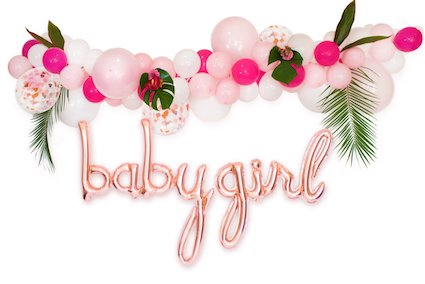
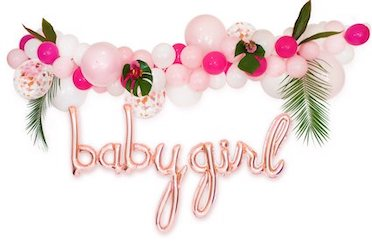
changed picture

diff --git a/index.html b/index.html
@@ -6,8 +6,7 @@
     <meta name="description" content="Sarah and Ranjith's Baby Shower">
     <link rel="stylesheet" href="css/reset.css">
     <link rel="stylesheet" href="css/style.css">
-    <link rel="stylesheet" href="css/small.css" media="(max-width: 640px)" media="(min-device-width : 375px) 
-    and (max-device-width : 667px)">
+    <link rel="stylesheet" href="css/small.css" media="(max-width: 630px)">
     <link href='https://fonts.googleapis.com/css?family=Open+Sans:300,700/Lobster' rel='stylesheet' type='text/css'>
     <meta name="viewport" content="width=device-width, initial-scale=1">
     <meta charset="utf-8" />
@@ -15,7 +14,7 @@
 
 <body>
     <div class="container">
-        <aside class="ohh-baby"><img src="./images/welcome-baby.jpeg" alt="ohh-baby"> </aside>
+        <aside class="ohh-baby"><img src="./images/ohh-baby.jpg" alt="ohh-baby"> </aside>
 
         <section class="details">
             <h1>Sarah and Ranjith's Baby Shower</h1>
@@ -79,7 +78,13 @@
         </iframe>
 
         <footer>
-            <p>Ranjith Coded this website for Sarah</p>
+            <strong>
+                <p>Ranjith Coded this website for Sarah | © 2019 - 2020 <br> <a style="margin-left:120px;"
+                        href="https://onemonth.com/" target="_blank">
+                        OneMonth </a> | <a
+                        href="https://www.target.com/gift-registry/giftgiver?registryId=8f45ba58a9d14184b58a44d1a2dd9307&type=BABY&fbclid=IwAR0IGuJZMep3XXCr2w__lLs6lxfSQxtUHzk-Y5cTC2e2L0KRUQBAnO-Xd5I"
+                        target="_blank">Privacy Policy</p>
+            </strong>
         </footer>
     </div>
     <!--container-->
